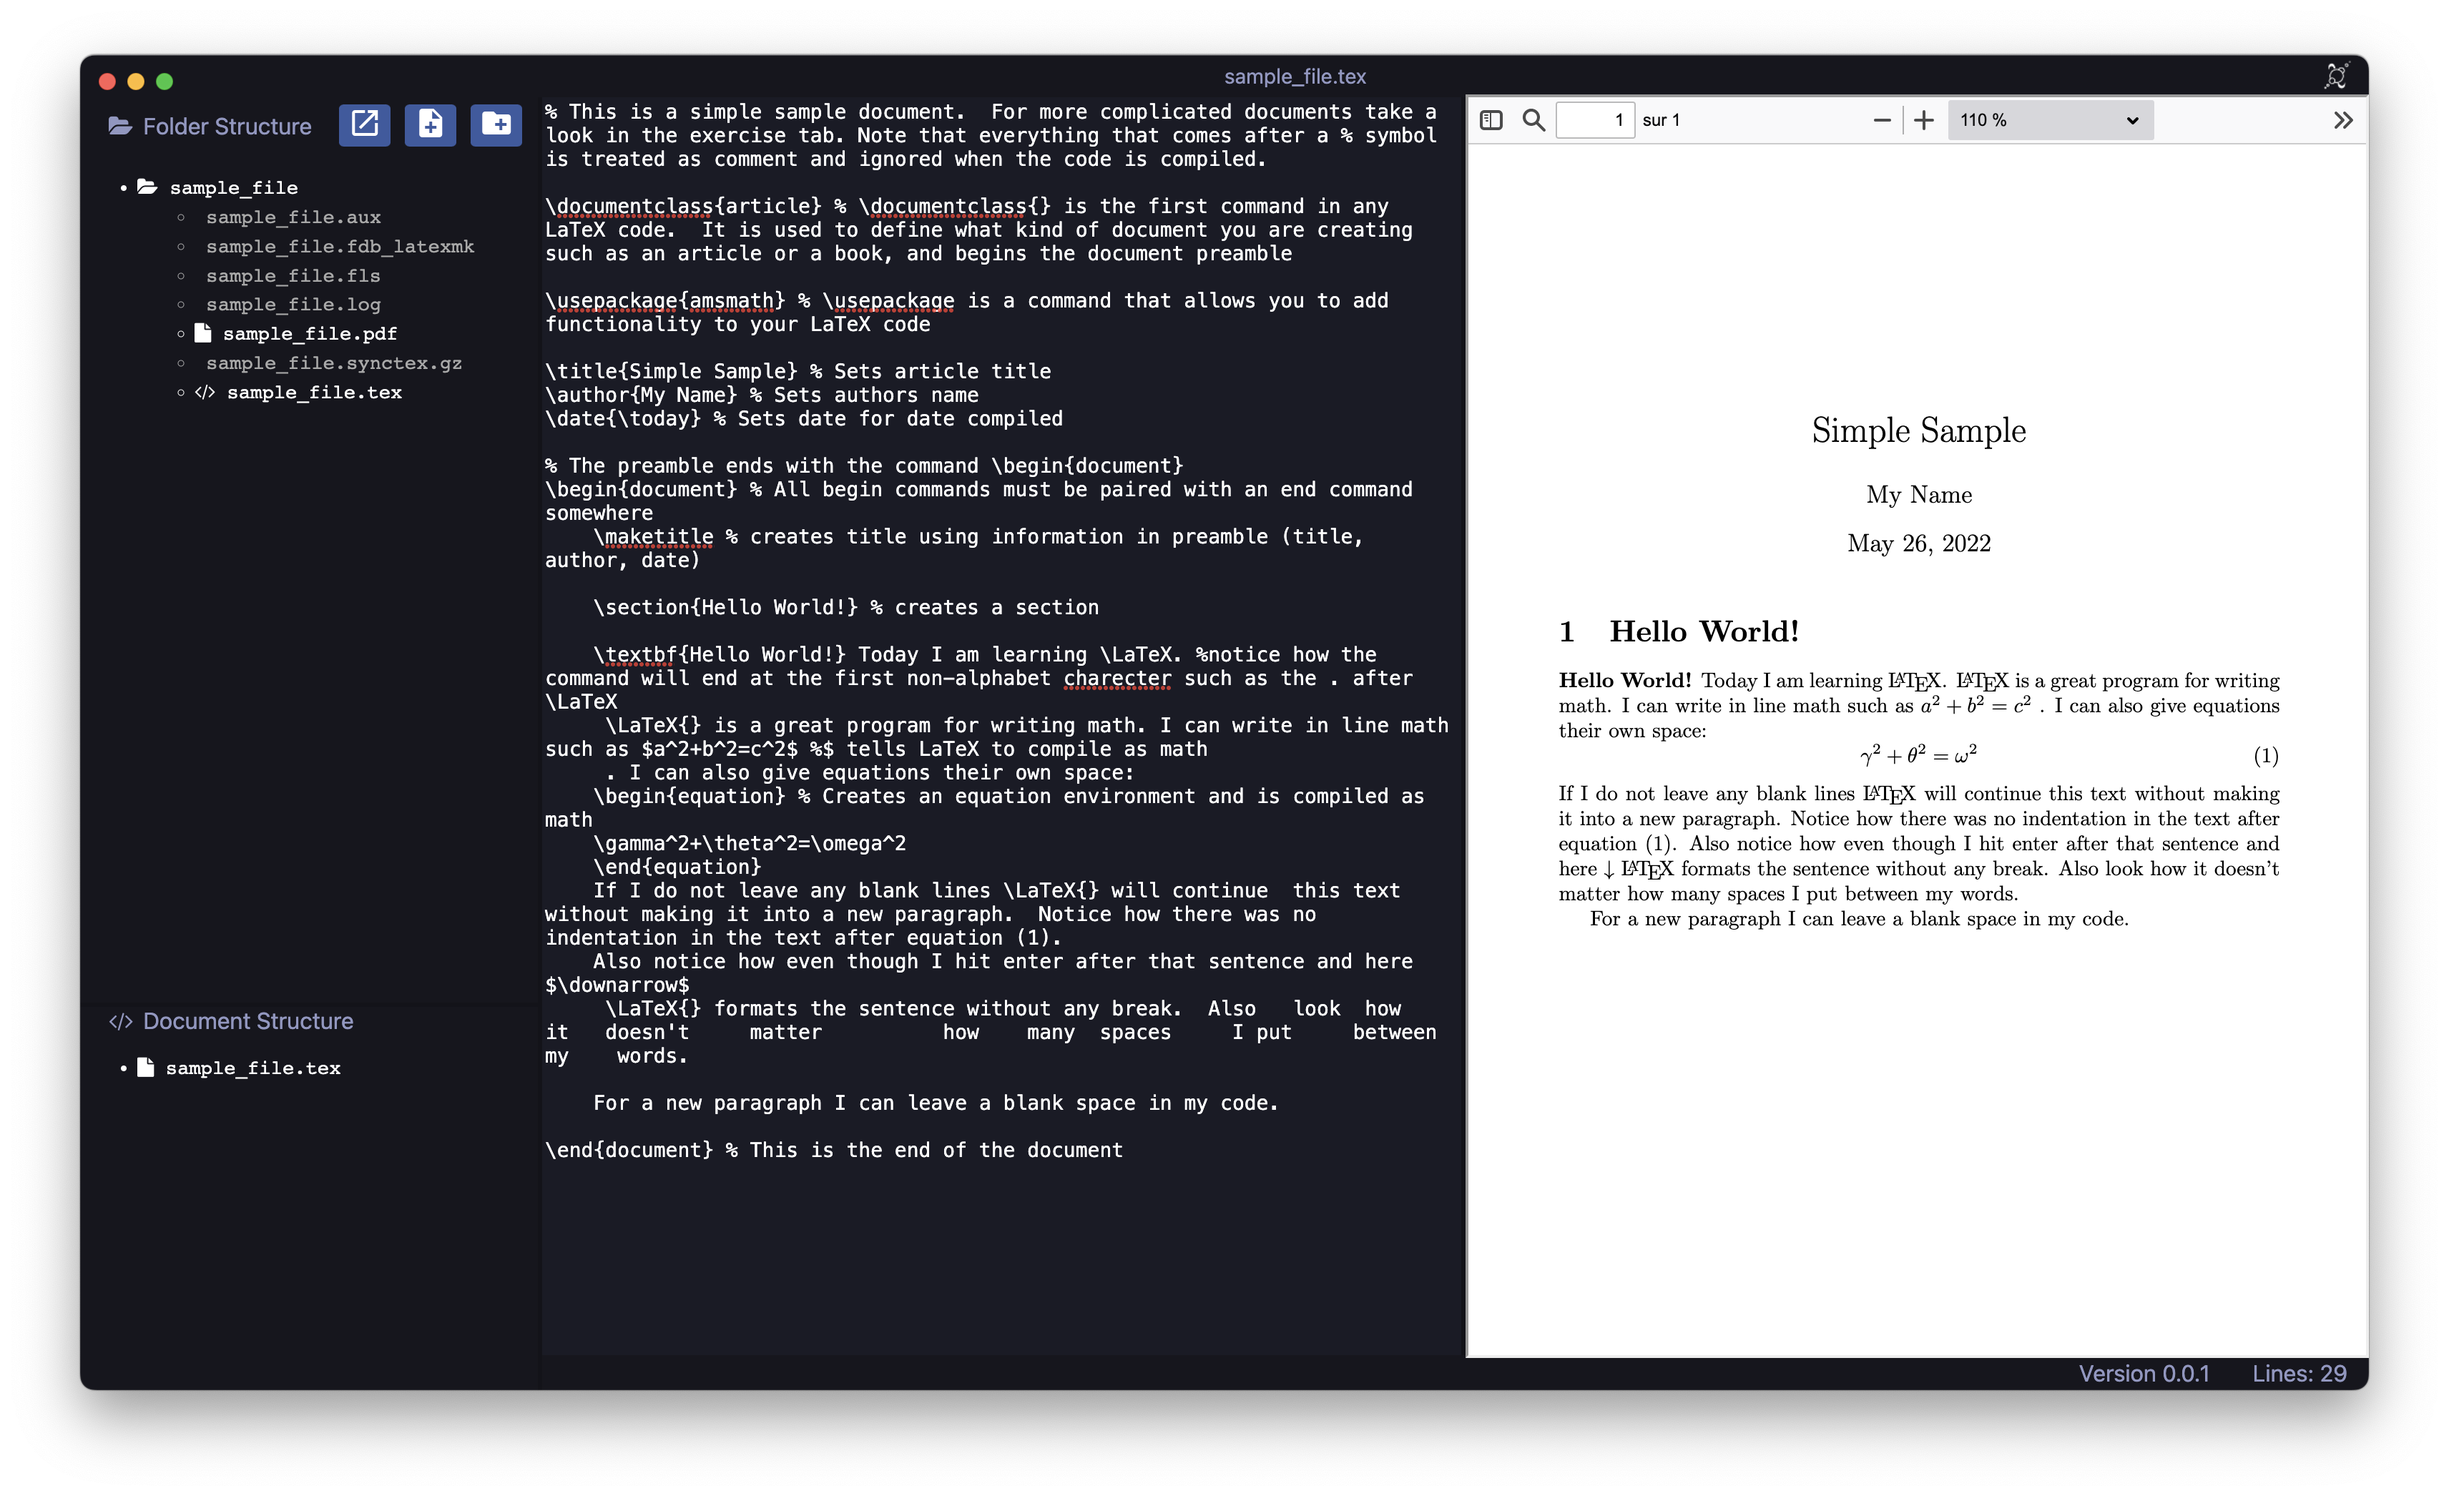
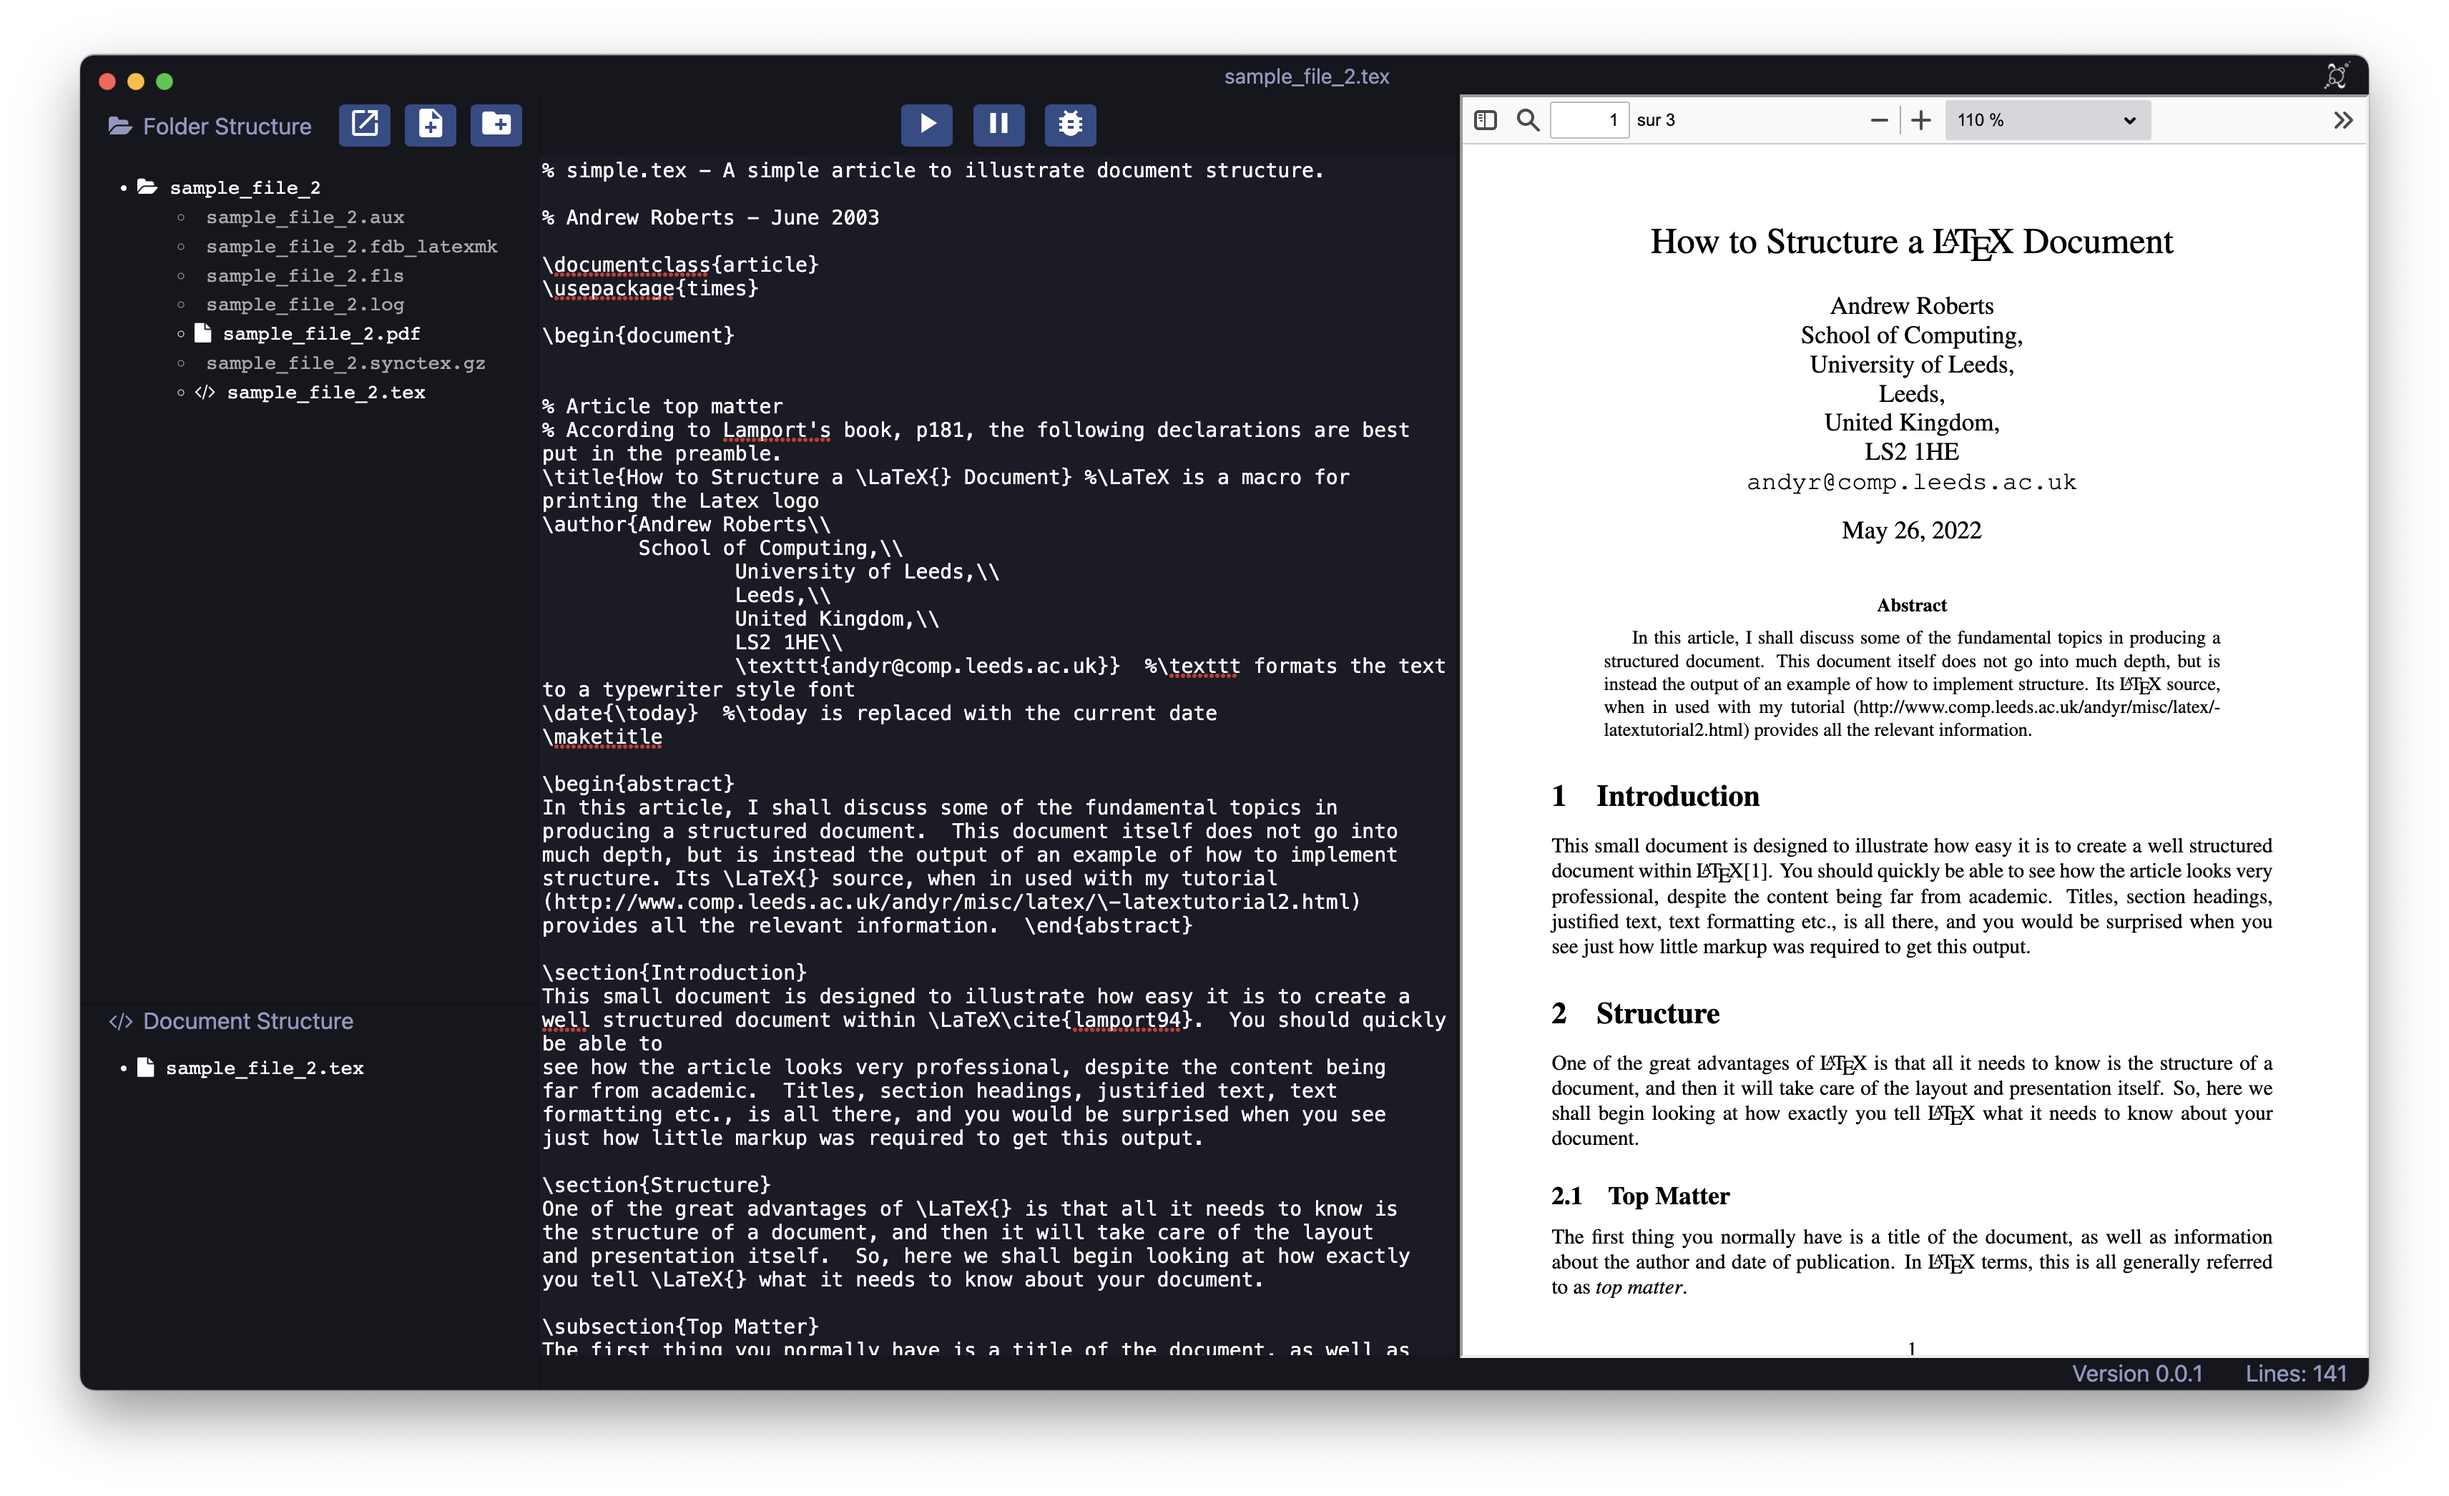
Added placeholder buttons for code compilation

diff --git a/src/main.js b/src/main.js
@@ -2,8 +2,6 @@ const { BrowserWindow, app, ipcMain, dialog, Menu, Notification } = require("ele
 const path = require("path");
 const fs = require("fs");
 const settings = require("electron-settings");
-const { set } = require("electron-settings");
-const { get } = require("http");
 
 const isDevelopementEnvironement = process.env.NODE_ENV === "development";
 
@@ -156,7 +154,6 @@ const createWindow = () => {
 
 const openFile = (filePath) => {
     openedFilePath = filePath;
-    openFolder(path.dirname(filePath));
 
     fs.readFile(filePath, "utf-8", (error, content) => {
         if (error) {
@@ -200,6 +197,7 @@ ipcMain.on("create-document-triggered", () => {
                     openedFilePath = filePath;
                     app.addRecentDocument(filePath);
                     mainWindow.webContents.send("document-created", filePath);
+                    openFolder(path.dirname(filePath));
                 }
             } );
         }
@@ -214,6 +212,7 @@ ipcMain.on("open-document-triggered", () => {
     .then(({ filePaths }) => {
         if (filePaths != undefined) {
             const filePath = filePaths[0];
+            openFolder(path.dirname(filePath));
             openFile(filePath);
         }
     });

diff --git a/src/styles.css b/src/styles.css
@@ -149,17 +149,17 @@ main
     margin-right: auto;
 }
 
-#folderManagementBar button {
-    border-radius: 10%;
+#folderManagementBar button, #codeCompileBar button {
+    border-radius: 12%;
     margin: 5px;
-    background-color: rgb(61, 89, 161);
+    background-color: rgb(51, 76, 135);
     border: none;
     outline: none;
     color: #fff;
 }
 
-#folderManagementBar button:active {
-    background-color: rgb(67, 70, 107);
+#folderManagementBar button:active, #codeCompileBar button:active {
+    background-color: rgb(43, 45, 79);
 }
 
 #structureTreePanel {
@@ -185,14 +185,19 @@ main
     width: 100%;
 }
 
-#codeEditorPanel {
-    font-size: 14px;
+#codeAndBarPanel {
     width: 50%;
     min-width: 20%;
 
-    align-items: center;
     display: flex;
+    flex-direction: column;
+    align-items: center;
     justify-content: center;
+}
+
+#codeEditorPanel {
+    width: 100%;
+    height: 100%;
 
     background-color: rgb(26, 27, 38);
     color: #fff;/*rgb(122, 162, 247);*/
@@ -201,6 +206,11 @@ main
     resize: none;
 
     font-family: Menlo, Monaco, 'Courier New', monospace;
+    font-size: 14px;
+}
+
+#codeCompileBar {
+    height: 43px;
 }
 
 /*::-webkit-scrollbar {

diff --git a/src/index.html b/src/index.html
@@ -73,7 +73,14 @@
                 <div id="devAndFooterContainer">
 
                     <div class="HContainer" id="developmentPanel" style="display: flex">
-                        <textarea class="code-panel" id="codeEditorPanel" disabled ></textarea>
+                        <div id="codeAndBarPanel">
+                          <div id="codeCompileBar">
+                            <button id="compileCodeBtn"><span class="material-icons"> play_arrow </span></button>
+                            <button id="interruptCompileBtn"><span class="material-icons"> pause </span></button>
+                            <button id="showErrorsBtn"><span class="material-icons"> bug_report </span></button>
+                          </div>
+                          <textarea id="codeEditorPanel" disabled ></textarea>
+                        </div>
                         <div id="codePdfResizer" class="resizer" data-direction="horizontal"></div>
                         <div class="pdf-panel" id="pdfViewerPanel">PDF</div>
                     </div>
